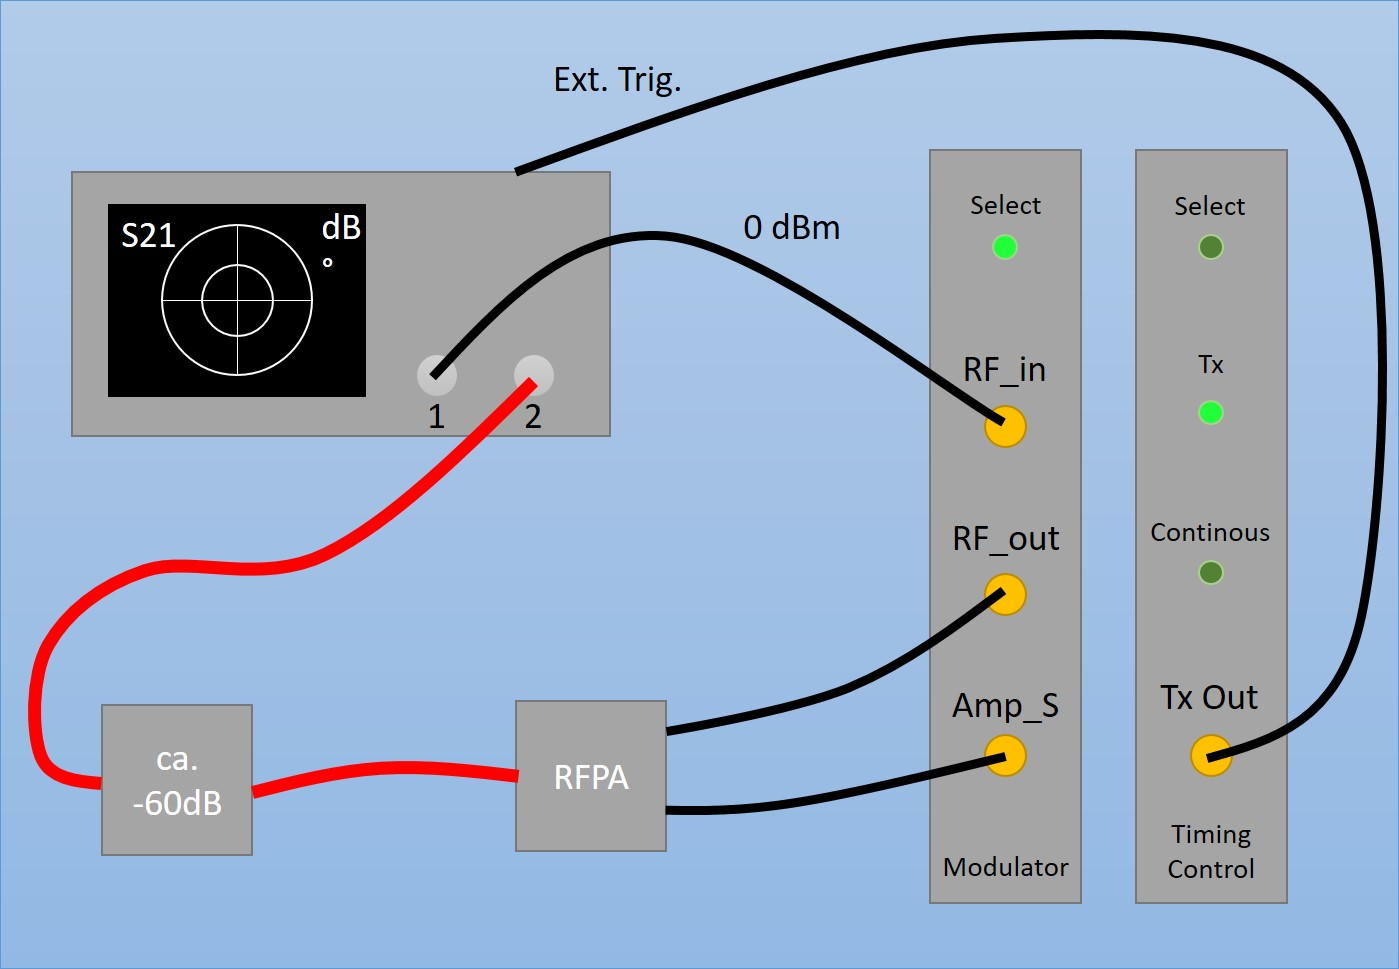
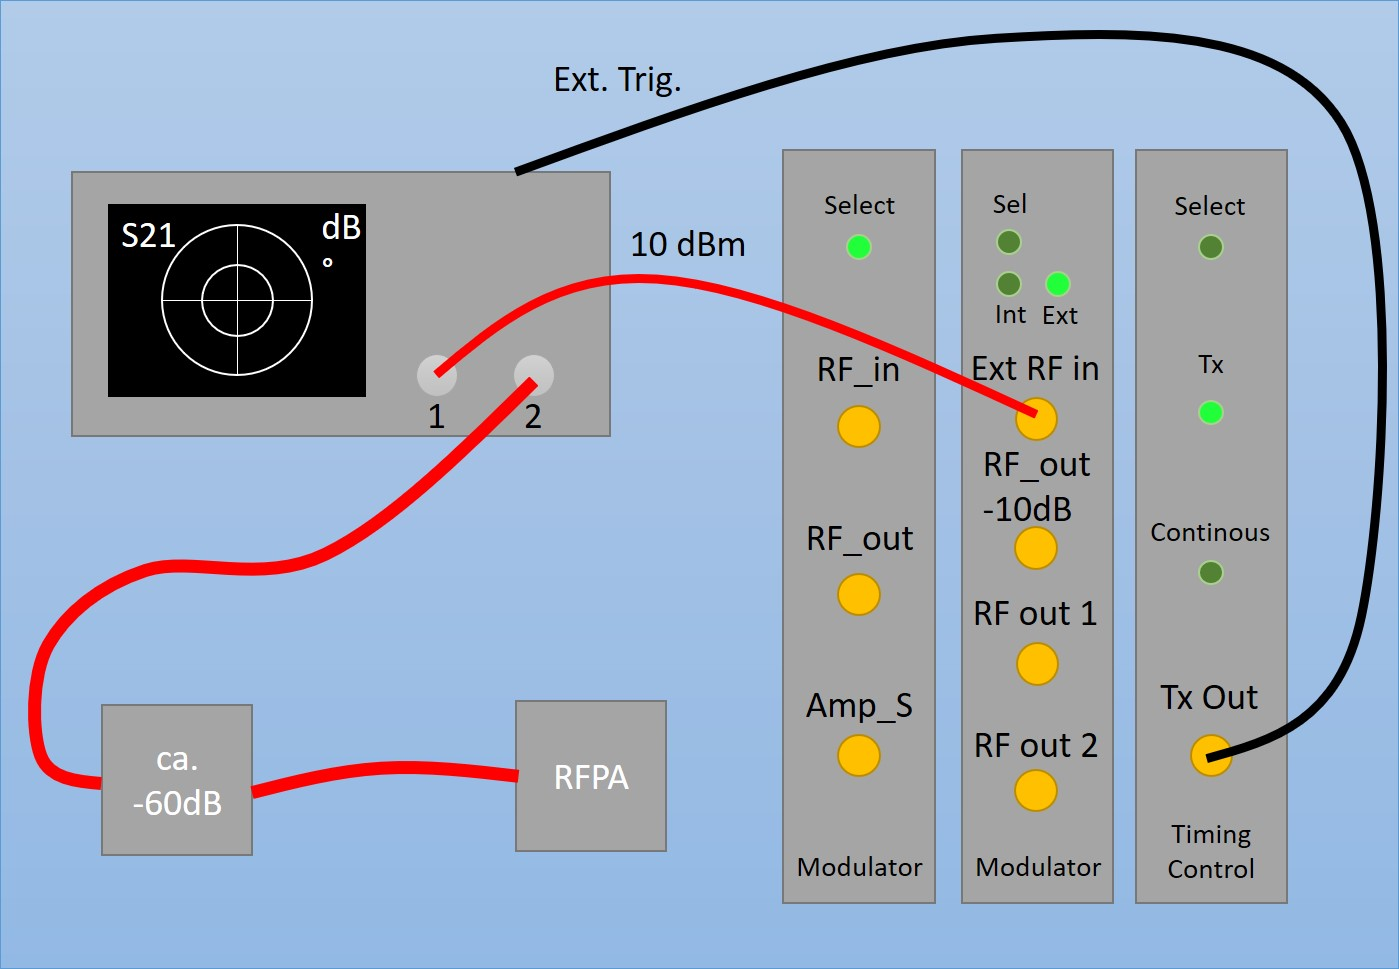
Small changes for Calibration -Changes Digital values (more dense at lower values) -Increased range for plot in 1D Calibration. -Changed Images for 1D and zero point Calibration

Changed region(s): [[0.3074, 0.1548, 0.7991, 0.9598], [0.461, 0.743, 0.5225, 0.774]]

diff --git a/STASIS_Control.py b/STASIS_Control.py
@@ -248,18 +248,19 @@ class ModulatorObj: #Contains all data and methods for Modulators
             print('Could not open IQ offset calibration file. Using no offset.')
         
         #Initialize Variables for Linearity Calibration
-        self.number_of_1D_samples=12
-        Dig_Values = [0, 250, 500, 750, 1000, 1500, 2000, 2500, 3000, 3500, 4000, 4500]
+        self.number_of_1D_samples=13
+        Dig_Values = [0, 75, 250, 500, 750, 1000, 1500, 2000, 2500, 3000, 3500, 4000, 4500] #These numbers are arbitrary.
+        exponent=1.5 #Exponent to make sure lower values are closer together
         for a in range(self.number_of_1D_samples):
-            Dig_Values[a]=round(4500/self.number_of_1D_samples*a)
+            Dig_Values[a]=round(4500/pow(self.number_of_1D_samples-1,exponent)*pow(a,exponent))
 
         self.Cal1D = np.zeros((self.number_of_channels,2,self.number_of_1D_samples,3)) #Number of Channels, Number of power modes (high/low), number of test samples, 3 (digital value, voltage, phase)
         self.voltageHigh=int(config['Amplifiers']['max_amplitude_high'])
         self.voltageLow=int(config['Amplifiers']['max_amplitude_low'])
         for a in range(self.number_of_1D_samples): #Define standard values for Calibration in case no calibration file is found.
             self.Cal1D[:,1,a,0] = Dig_Values[a] #Generic digital values
-            self.Cal1D[:,0,a,0] = round(Dig_Values[a]/5) #Generic digital values
-            self.Cal1D[:,0,a,1] = self.voltageLow /2500 * Dig_Values[a] #generic voltage values low power mode
+            self.Cal1D[:,0,a,0] = round(Dig_Values[a]/4) #Generic digital values
+            self.Cal1D[:,0,a,1] = self.voltageLow /4500 * Dig_Values[a] #generic voltage values low power mode
             self.Cal1D[:,1,a,1] = self.voltageHigh/4500 * Dig_Values[a] #generic voltage values high power mode
             self.Cal1D[:,:,:,2] = 0 #No phase error
 

diff --git a/STASIS_Calibration.py b/STASIS_Calibration.py
@@ -291,7 +291,7 @@ class CalibrateLinearity1DObj:
     def apply_entry(self):
         '''Applies the entry from the entry boxes and writes them into the Cal1D variable.'''
         if self.dig_index>0: #Only allow changes for digital values other than 0
-            voltage=pow(10,float(self.dB_value.get())/20)*U_0dBm
+            voltage=pow(10,(float(self.dB_value.get())+10)/20)*U_0dBm #The +10 is for the 10 dBm apllied by the VNA.
             angle=float(self.deg_value.get())
             self.Cal1D[self.active_channel-1,self.Amp_Mode.get(),self.dig_index,1]=voltage
             self.Cal1D[self.active_channel-1,self.Amp_Mode.get(),self.dig_index,2]=angle
@@ -340,12 +340,12 @@ class CalibrateLinearity1DObj:
 
         #For convenience of reader, change y axis of plot:
         if mode==0:
-            U_max=100
+            U_max=70
         else:
-            U_max=270
+            U_max=300
         
         if mode==0:
-            x_ax_max=900
+            x_ax_max=1200
         else:
             x_ax_max=4500
 
@@ -430,7 +430,7 @@ class CalibrateLinearity1DObj:
             self.entry_degree.delete('0',END)
             self.entry_db.delete('0',END)
 
-        current_dB = 20*math.log10((self.Cal1D[ch,mode,dig_index,1]+0.000001)/U_0dBm)
+        current_dB = 20*math.log10((self.Cal1D[ch,mode,dig_index,1]+0.000001)/U_0dBm) -10   #The -10 accounts for the +10 dBm output of the VNA.
         current_deg = self.Cal1D[ch,mode,dig_index,2]
 
         
